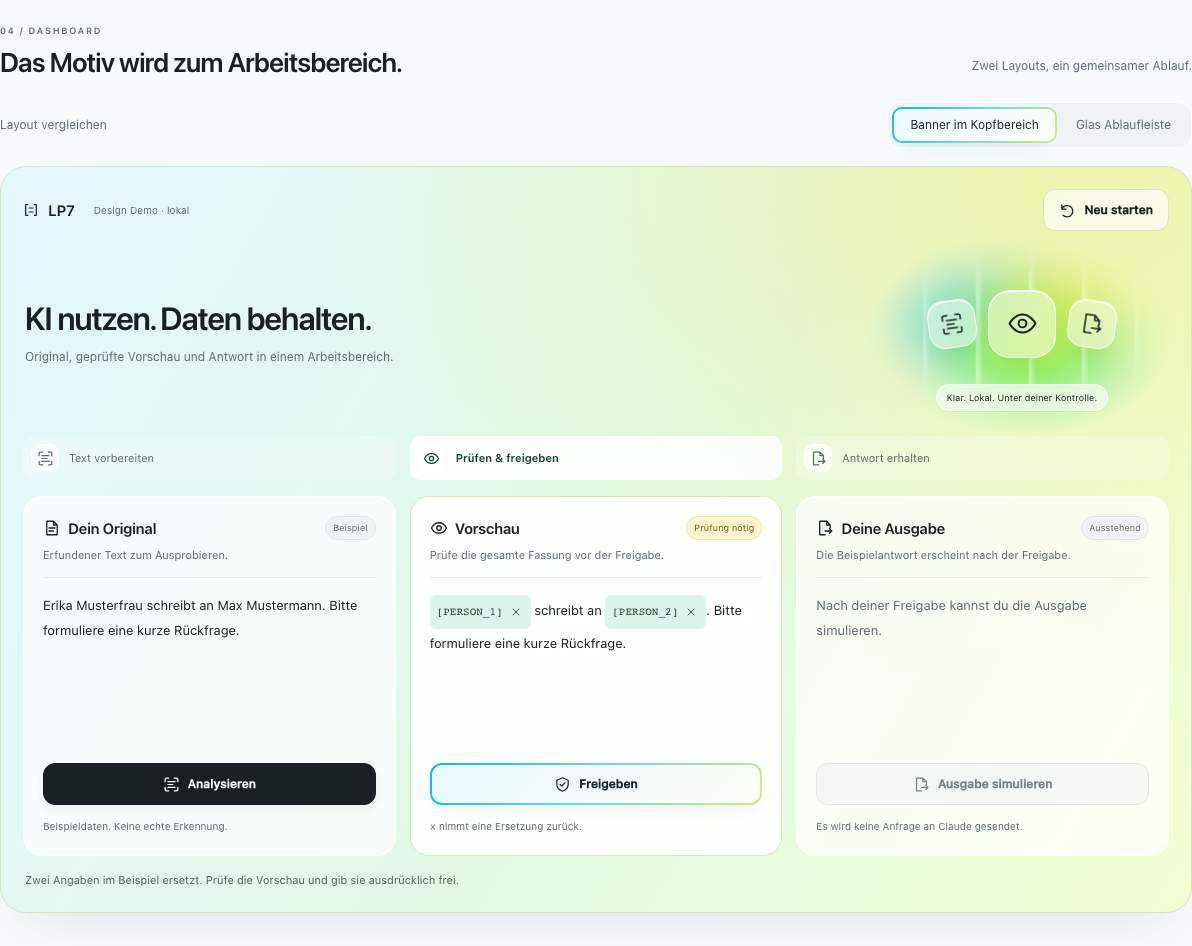
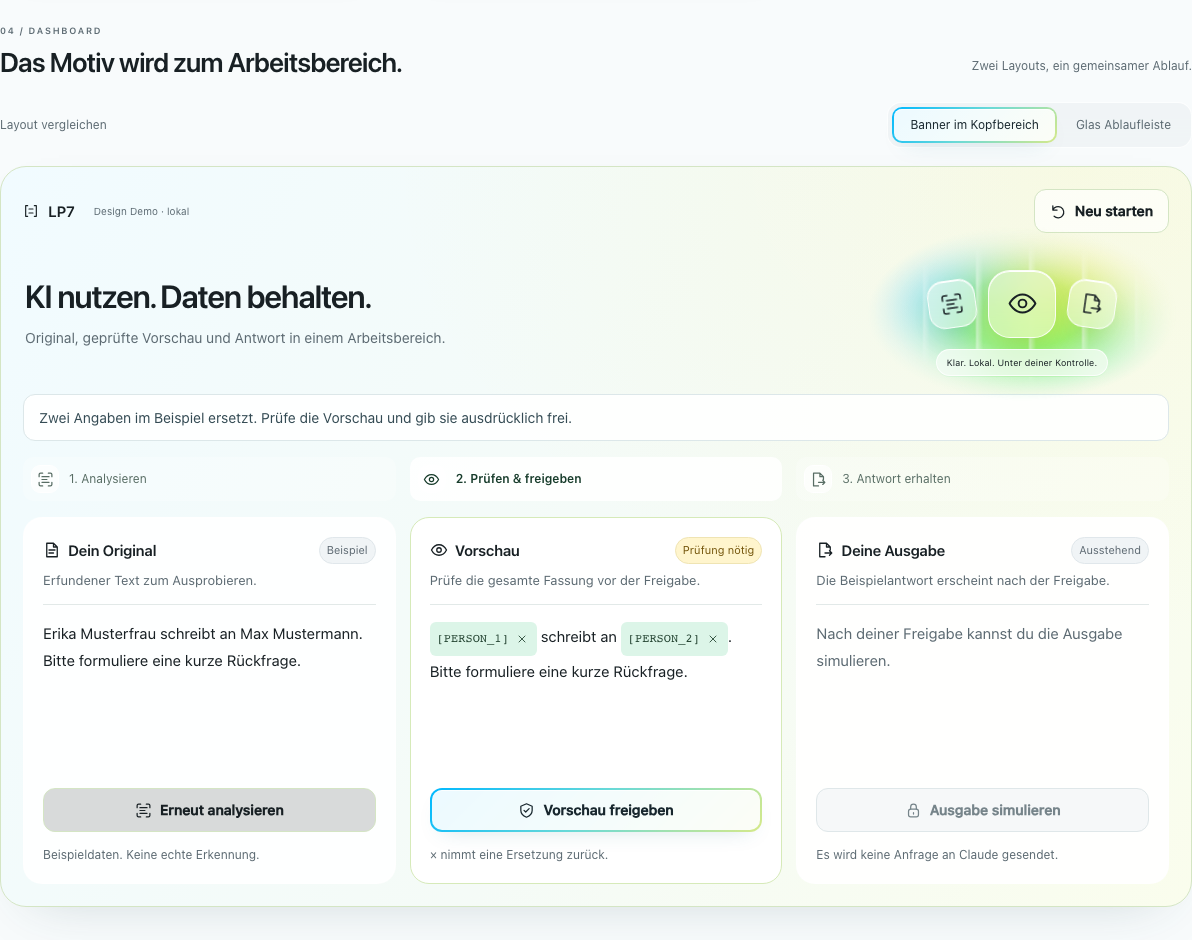
Make dashboard guidance clearer and soften work surfaces (#21)

diff --git a/web/ui-kit/kit.css b/web/ui-kit/kit.css
@@ -131,12 +131,14 @@ input { width:100%; border:1px solid #dce4e7; background:#ffffffbf; min-height:4
 .dashboard-controls { display:flex; justify-content:space-between; align-items:center; gap:16px; margin-bottom:18px; color:var(--muted); font-size:12px; }
 .dashboard { padding:22px; border:1px solid var(--line); border-radius:26px; background:linear-gradient(130deg,#ecf9fc,#f9fcfc 50%,#f0fae9); box-shadow:0 20px 55px -32px #274b5340; }
 .dashboard .demo-topbar { font-size:15px; }
+.dashboard .button { min-height:44px; font-size:14px; }
+#dashPreviewTitle:focus-visible { outline:3px solid #0076a9; outline-offset:5px; border-radius:3px; }
 .dashboard .demo-mark { gap:9px; }
 .dash-local { font-size:10px; font-weight:400; color:var(--muted); margin-left:10px; }
-.dash-intro { display:flex; justify-content:space-between; align-items:center; gap:24px; padding:25px 2px; }
+.dash-intro { display:flex; justify-content:space-between; align-items:center; gap:24px; padding:18px 2px; }
 .dash-intro h3 { font-size:32px; line-height:1.12; letter-spacing:-1.2px; }
-.dash-intro p { font-size:12px; color:var(--muted); margin:12px 0 0; }
-.dash-banner { display:none; width:290px; max-width:40%; min-height:155px; flex-shrink:0; gap:12px; margin:0; }
+.dash-intro p { font-size:14px; color:var(--muted); margin:12px 0 0; }
+.dash-banner { display:none; width:290px; max-width:40%; min-height:125px; flex-shrink:0; gap:12px; margin:0; }
 .dashboard[data-layout="banner"] .dash-banner { display:flex; }
 .dash-banner .art-icon.small { width:48px; height:48px; border-radius:16px; }
 .dash-banner .art-icon.large { width:68px; height:68px; border-radius:22px; }
@@ -144,7 +146,7 @@ input { width:100%; border:1px solid #dce4e7; background:#ffffffbf; min-height:4
 .dash-banner .art-icon.large .icon { width:31px; height:31px; }
 .dash-banner .art-label { font-size:9px; bottom:0; padding:6px 10px; white-space:nowrap; }
 .dash-steps { display:grid; grid-template-columns:repeat(3,minmax(0,1fr)); gap:14px; padding:0; margin:0 0 16px; list-style:none; }
-.dash-steps li { display:flex; align-items:center; gap:10px; font-size:11px; padding:10px 13px; border:1px solid #ffffffed; border-radius:16px; color:#586d64; background:#ffffff80; }
+.dash-steps li { display:flex; align-items:center; gap:10px; font-size:12px; padding:10px 13px; border:1px solid #ffffffed; border-radius:16px; color:#586d64; background:#ffffff80; }
 .dash-steps [aria-current="step"] { color:#173c2b; background:linear-gradient(100deg,#e3faff,#ecffc8); border-color:#cbe6c2; font-weight:600; }
 .dash-step-icon { width:36px; height:36px; flex-shrink:0; display:grid; place-items:center; border:1px solid #fff; border-radius:12px; background:#ffffffa8; box-shadow:0 3px 12px #2d563e08; }
 .dashboard[data-layout="banner"] .dash-steps li { border:0; border-radius:10px; background:#ffffff40; padding:8px; }
@@ -157,18 +159,19 @@ input { width:100%; border:1px solid #dce4e7; background:#ffffffbf; min-height:4
 .dash-card-heading { display:flex; justify-content:space-between; align-items:center; flex-wrap:wrap; gap:8px; }
 .dash-card h4 { display:flex; align-items:center; gap:7px; margin:0; font-size:15px; font-weight:600; letter-spacing:-.3px; }
 .dash-card h4 .icon { width:18px; height:18px; }
-.dash-card .badge { font-size:9px; padding:4px 7px; }
-.dash-caption { margin:-7px 0 0; color:var(--muted); font-size:11px; }
-.dash-text,#dashOriginal { flex:1; min-height:170px; width:100%; margin:0; padding:15px 0; border:0; border-top:1px solid #e2e9e8; background:transparent; font:13px/1.9 -apple-system,BlinkMacSystemFont,"Helvetica Neue","Segoe UI",sans-serif; color:var(--ink); overflow-wrap:anywhere; }
+.dash-card .badge { font-size:11px; padding:4px 7px; }
+.dash-caption { margin:-7px 0 0; color:var(--muted); font-size:13px; }
+.dash-text,#dashOriginal { flex:1; min-height:170px; width:100%; margin:0; padding:15px 0; border:0; border-top:1px solid #e2e9e8; background:transparent; font:15px/1.8 -apple-system,BlinkMacSystemFont,"Helvetica Neue","Segoe UI",sans-serif; color:var(--ink); overflow-wrap:anywhere; }
 #dashOriginal { resize:none; }
 .dash-empty { color:var(--muted); }
-.dash-text .data-chip { display:inline-flex; align-items:center; padding-right:2px; font-size:11px; margin:2px 0; }
+.dash-text .data-chip { display:inline-flex; align-items:center; padding-right:2px; font-size:12px; margin:2px 0; }
 .dash-text button { display:inline-grid; place-items:center; width:26px; height:28px; border:0; border-radius:5px; padding:0; background:transparent; color:inherit; }
 .dash-text button:hover { background:#ffffffb3; }
 .dash-text button .icon { width:12px; height:12px; }
-.dash-foot { margin:0; min-height:17px; font-size:10px; color:var(--muted); }
-.dash-notice { margin:16px 2px 0; min-height:18px; font-size:11px; color:#466457; }
-body[data-look="lime"] .dashboard { background:radial-gradient(ellipse at 90% 0,#ffe53b50,transparent 50%),linear-gradient(120deg,#e4f8ff,#e2f9e5 55%,#f3ffd1); }
+.dash-foot { margin:0; min-height:17px; font-size:12px; color:var(--muted); }
+.dash-notice { margin:0 0 16px; padding:12px 15px; border:1px solid #dce7e9; border-radius:12px; background:#ffffffdf; font-size:14px; color:#344b54; }
+body[data-look="lime"] .dashboard { --panel:#fffffff2; background:radial-gradient(ellipse at 90% 0,#ffe53b18,transparent 45%),linear-gradient(120deg,#f1fbff,#f5fbf7 55%,#fafded); }
+body[data-look="lime"] .dash-review { background:#fffffff2; }
 body[data-look="pure"] .dashboard { background:#fafbfb; box-shadow:none; }
 body[data-look="pure"] .dash-steps [aria-current="step"] { background:#eaf0ee; border-color:#d7e0dc; }
 body[data-look="pure"] .dash-card { border-color:var(--line); box-shadow:none; }
@@ -196,10 +199,10 @@ body[data-look="pure"] .icon-tile[aria-pressed="true"] { background:#f1f4f4; }
 body[data-look="pure"] .button.accent { background:var(--ink); color:#fff; border-color:var(--ink); }
 @media(max-width:1100px) { .site-shell { padding:0 28px; } .edition { display:none; } .icon-grid { grid-template-columns:repeat(6,minmax(0,1fr)); } .icon-inspector { flex-wrap:wrap; } .size-samples { padding:0 10px; } .component { padding:19px; } .demo-grid { gap:12px; } .demo-window { padding:13px; } .demo-editor { padding:14px; } .demo-caption { flex-direction:column; gap:3px; } }
 @media(max-width:800px) { .site-shell { padding:0 20px; } .hero { gap:15px; grid-template-columns:1fr; padding-top:30px; } .hero-art { min-height:180px; margin-top:8px; } h1 { font-size:52px; } .section-heading { align-items:flex-start; flex-direction:column; gap:12px; } .look-bar { align-items:flex-start; flex-direction:column; gap:12px; } .component-grid,.demo-grid { grid-template-columns:1fr; } .demo-window { min-height:400px; padding:20px; } .demo-caption { flex-direction:row; align-items:baseline; gap:9px; } .demo-steps > span { font-size:11px; } .demo-status { font-size:10px; } .demo-text { font-size:14px; } .demo-help,.demo-window .demo-safety { font-size:11px; } .demo-actions .button { font-size:13px; min-height:44px; } .demo-grid { gap:26px; } .component { padding:22px; } .component > p,.component .component-note { font-size:12px; } .local-note { font-size:11px; } .component-grid { gap:13px; } .badge { font-size:11px; } .icon-inspector .button-row { width:100%; } }
-@media(max-width:520px) { .site-header { gap:15px; min-height:80px; } .brand { font-size:24px; } .brand-caption { display:none; } nav { gap:16px; font-size:11px; } h1 { font-size:43px; letter-spacing:-2px; } .lead { font-size:13px; } h2 { font-size:25px; } .eyebrow { font-size:9px; letter-spacing:1.4px; } .icon-grid { grid-template-columns:repeat(3,minmax(0,1fr)); gap:8px; } .icon-tile { min-height:100px; } .icon-tile > span { font-size:11px; } .icon-inspector { padding:15px; gap:12px; } .inspector-info > span { font-size:11px; } .size-samples { display:none; } .inspector-symbol { width:44px; height:44px; } .icon-inspector .button { flex:1; padding:10px 9px; font-size:11px; } .segmented { width:100%; } .segmented button { flex:1; padding:8px; font-size:11px; } .section { padding-top:18px; } input { font-size:16px; } footer { flex-direction:column; } }
+@media(max-width:520px) { .site-header { flex-direction:column; align-items:flex-start; gap:2px; padding:16px 0 8px; } .brand { font-size:24px; } .brand-caption { display:none; } nav { width:100%; justify-content:space-between; gap:10px; font-size:12px; } nav a { display:flex; align-items:center; min-height:44px; } h1 { font-size:43px; letter-spacing:-2px; } .lead { font-size:13px; } h2 { font-size:25px; } .eyebrow { font-size:9px; letter-spacing:1.4px; } .icon-grid { grid-template-columns:repeat(3,minmax(0,1fr)); gap:8px; } .icon-tile { min-height:100px; } .icon-tile > span { font-size:11px; } .icon-inspector { padding:15px; gap:12px; } .inspector-info > span { font-size:11px; } .size-samples { display:none; } .inspector-symbol { width:44px; height:44px; } .icon-inspector .button { flex:1; padding:10px 9px; font-size:11px; } .segmented { width:100%; } .segmented button { flex:1; padding:8px; font-size:11px; } .section { padding-top:18px; } input { font-size:16px; } footer { flex-direction:column; } }
 /* Vermeidet leere Kompositflächen beim Scrollen langer Seiten auf kleinen Displays. */
 @media(max-width:800px) { .glass-panel { backdrop-filter:none; } }
 @media(max-width:1100px) and (min-width:801px) { .dashboard { padding:16px; } .dash-card { padding:14px; } .dash-card h4 { font-size:14px; } .dash-intro h3 { font-size:28px; } }
-@media(max-width:800px) { .dashboard-controls { flex-direction:column; align-items:flex-start; gap:11px; } .dashboard { padding:15px; border-radius:21px; } .dash-local { display:none; } .dash-intro { flex-direction:column; align-items:flex-start; gap:18px; padding:24px 2px; } .dash-intro h3 { font-size:29px; } .dash-banner { width:280px; max-width:100%; align-self:center; } .dash-panels { grid-template-columns:1fr; } .dash-card { min-height:330px; padding:19px; } .dash-steps { gap:6px; } .dash-steps li { flex-direction:column; gap:7px; padding:9px 4px; font-size:9px; text-align:center; } .dash-caption,.dash-foot,.dash-notice { font-size:11px; } #dashOriginal { font-size:16px; } .dash-card .button { min-height:44px; } }
+@media(max-width:800px) { .dashboard-controls { flex-direction:column; align-items:flex-start; gap:11px; } .dashboard { padding:15px; border-radius:21px; } .dash-local { display:none; } .dash-intro { flex-direction:column; align-items:flex-start; gap:18px; padding:24px 2px; } .dash-intro h3 { font-size:29px; } .dash-banner { width:280px; max-width:100%; align-self:center; } .dash-panels { grid-template-columns:1fr; } .dash-card { min-height:330px; padding:19px; } .dash-steps { gap:6px; } .dash-steps li { flex-direction:column; gap:7px; padding:9px 4px; font-size:11px; text-align:center; } .dash-caption,.dash-foot { font-size:12px; } #dashOriginal { font-size:16px; } .dash-card .button { min-height:44px; } }
 @media(pointer:coarse) { .dash-text button { width:44px; height:44px; } }
 @media(prefers-reduced-motion:reduce) { html { scroll-behavior:auto; } * { transition:none !important; } }

diff --git a/web/ui-kit/index.html b/web/ui-kit/index.html
@@ -32,7 +32,7 @@
 <div class="site-shell">
   <header class="site-header">
     <a class="brand" href="#"><svg class="icon" aria-hidden="true"><use href="#i-mask"/></svg>LP7<span class="brand-caption">Interface Kit</span></a>
-    <nav aria-label="UI Kit Bereiche"><a href="#icons">Icons</a><a href="#components">Komponenten</a><a href="#demos">Demos</a></nav>
+    <nav aria-label="UI Kit Bereiche"><a href="#icons">Icons</a><a href="#components">Komponenten</a><a href="#demos">Demos</a><a href="#dashboard">Dashboard</a></nav>
     <span class="edition">Designstudie · 2026</span>
   </header>
   <main>
@@ -74,13 +74,13 @@
       <div id="dashboardDemo" class="dashboard" data-layout="banner" data-stage="original">
         <div class="demo-topbar"><span class="demo-mark"><svg class="icon" aria-hidden="true"><use href="#i-mask"/></svg>LP7<span class="dash-local">Design Demo · lokal</span></span><button type="button" class="button secondary" id="dashReset"><svg class="icon" aria-hidden="true"><use href="#i-reset"/></svg>Neu starten</button></div>
         <div class="dash-intro"><div><h3>KI nutzen. Daten behalten.</h3><p>Original, geprüfte Vorschau und Antwort in einem Arbeitsbereich.</p></div><div class="dash-banner hero-art" aria-hidden="true"><span class="art-icon small"><svg class="icon"><use href="#i-analyze"/></svg></span><span class="art-icon large"><svg class="icon"><use href="#i-preview"/></svg></span><span class="art-icon small"><svg class="icon"><use href="#i-output"/></svg></span><span class="art-label">Klar. Lokal. Unter deiner Kontrolle.</span></div></div>
-        <ol class="dash-steps" aria-label="Dashboard Arbeitsschritte"><li data-dash-step="original"><span class="dash-step-icon"><svg class="icon" aria-hidden="true"><use href="#i-analyze"/></svg></span>Text vorbereiten</li><li data-dash-step="preview"><span class="dash-step-icon"><svg class="icon" aria-hidden="true"><use href="#i-preview"/></svg></span>Prüfen & freigeben</li><li data-dash-step="output"><span class="dash-step-icon"><svg class="icon" aria-hidden="true"><use href="#i-output"/></svg></span>Antwort erhalten</li></ol>
+        <p id="dashNotice" class="dash-notice" role="status"></p>
+        <ol class="dash-steps" aria-label="Dashboard Arbeitsschritte"><li data-dash-step="original"><span class="dash-step-icon"><svg class="icon" aria-hidden="true"><use href="#i-analyze"/></svg></span>1. Analysieren</li><li data-dash-step="preview"><span class="dash-step-icon"><svg class="icon" aria-hidden="true"><use href="#i-preview"/></svg></span>2. Prüfen & freigeben</li><li data-dash-step="output"><span class="dash-step-icon"><svg class="icon" aria-hidden="true"><use href="#i-output"/></svg></span>3. Antwort erhalten</li></ol>
         <div class="dash-panels">
           <section class="dash-card" aria-labelledby="dashOriginalTitle"><div class="dash-card-heading"><h4 id="dashOriginalTitle"><svg class="icon" aria-hidden="true"><use href="#i-original"/></svg>Dein Original</h4><span class="badge neutral">Beispiel</span></div><p class="dash-caption" id="dashOriginalHelp">Erfundener Text zum Ausprobieren.</p><textarea id="dashOriginal" readonly aria-labelledby="dashOriginalTitle" aria-describedby="dashOriginalHelp"></textarea><button type="button" class="button primary" id="dashAnalyze"><svg class="icon" aria-hidden="true"><use href="#i-analyze"/></svg>Analysieren</button><p class="dash-foot">Beispieldaten. Keine echte Erkennung.</p></section>
-          <section class="dash-card dash-review" aria-labelledby="dashPreviewTitle"><div class="dash-card-heading"><h4 id="dashPreviewTitle"><svg class="icon" aria-hidden="true"><use href="#i-preview"/></svg>Vorschau</h4><span id="dashStatus" class="badge neutral">Gesperrt</span></div><p class="dash-caption">Prüfe die gesamte Fassung vor der Freigabe.</p><div id="dashPreview" class="dash-text"></div><button type="button" class="button accent" id="dashRelease" disabled><svg class="icon" aria-hidden="true"><use href="#i-release"/></svg>Freigeben</button><p class="dash-foot">× nimmt eine Ersetzung zurück.</p></section>
+          <section class="dash-card dash-review" aria-labelledby="dashPreviewTitle"><div class="dash-card-heading"><h4 id="dashPreviewTitle" tabindex="-1"><svg class="icon" aria-hidden="true"><use href="#i-preview"/></svg>Vorschau</h4><span id="dashStatus" class="badge neutral">Gesperrt</span></div><p class="dash-caption">Prüfe die gesamte Fassung vor der Freigabe.</p><div id="dashPreview" class="dash-text"></div><button type="button" class="button accent" id="dashRelease" disabled><svg class="icon" aria-hidden="true"><use href="#i-release"/></svg>Vorschau freigeben</button><p class="dash-foot">× nimmt eine Ersetzung zurück.</p></section>
           <section class="dash-card" aria-labelledby="dashAnswerTitle"><div class="dash-card-heading"><h4 id="dashAnswerTitle"><svg class="icon" aria-hidden="true"><use href="#i-output"/></svg>Deine Ausgabe</h4><span id="dashAnswerStatus" class="badge neutral">Ausstehend</span></div><p class="dash-caption">Die Beispielantwort erscheint nach der Freigabe.</p><div id="dashAnswer" class="dash-text"></div><button type="button" class="button primary" id="dashOutput" disabled><svg class="icon" aria-hidden="true"><use href="#i-output"/></svg>Ausgabe simulieren</button><p class="dash-foot">Es wird keine Anfrage an Claude gesendet.</p></section>
         </div>
-        <p id="dashNotice" class="dash-notice" role="status"></p>
       </div>
     </section>
     <footer><span>LP7 · Interface Kit</span><span>Eigenständige Designstudie. Keine Verbindung zu Claude.</span><a href="icons.zip" download>Alle 18 SVG Icons laden <span aria-hidden="true">↗</span></a></footer>

diff --git a/web/ui-kit/kit.js b/web/ui-kit/kit.js
@@ -145,7 +145,7 @@ function renderDashboard(message) {
   const output = dashboardStage === 'output';
   dashboard.dataset.stage = dashboardStage;
   for (const step of dashboard.querySelectorAll('[data-dash-step]')) {
-    if (step.dataset.dashStep === (original ? 'original' : output ? 'output' : 'preview')) step.setAttribute('aria-current', 'step');
+    if (step.dataset.dashStep === (original ? 'original' : released || output ? 'output' : 'preview')) step.setAttribute('aria-current', 'step');
     else step.removeAttribute('aria-current');
   }
   const person = (index, name) => removed.has(index) ? name : `<span class="data-chip person">[PERSON_${index}]<button type="button" data-person="${index}" aria-label="PERSON_${index} zurücknehmen">${icon('close')}</button></span>`;
@@ -154,6 +154,12 @@ function renderDashboard(message) {
   $('dashStatus').className = 'badge ' + (original ? 'neutral' : released || output ? 'success' : 'warning');
   $('dashRelease').disabled = original || released || output;
   $('dashOutput').disabled = !released;
+  $('dashAnalyze').classList.toggle('primary', original);
+  $('dashAnalyze').classList.toggle('secondary', !original);
+  $('dashAnalyze').innerHTML = icon('analyze') + (original ? 'Analysieren' : 'Erneut analysieren');
+  $('dashOutput').classList.toggle('primary', released);
+  $('dashOutput').classList.toggle('secondary', !released);
+  $('dashOutput').innerHTML = icon(released || output ? 'output' : 'lock') + 'Ausgabe simulieren';
   $('dashAnswer').textContent = output ? example.answer : 'Nach deiner Freigabe kannst du die Ausgabe simulieren.';
   $('dashAnswer').classList.toggle('dash-empty', !output);
   $('dashAnswerStatus').textContent = output ? 'Fertig' : 'Ausstehend';
@@ -165,11 +171,13 @@ $('dashAnalyze').addEventListener('click', () => {
   removed.clear();
   dashboardStage = 'preview';
   renderDashboard('Zwei Angaben im Beispiel ersetzt. Prüfe die Vorschau und gib sie ausdrücklich frei.');
+  $('dashPreviewTitle').focus();
 });
 $('dashRelease').addEventListener('click', () => {
   if (dashboardStage !== 'preview') return;
   dashboardStage = 'released';
   renderDashboard('Vorschau freigegeben. Die simulierte Ausgabe ist jetzt verfügbar.');
+  $('dashOutput').focus();
 });
 $('dashOutput').addEventListener('click', () => {
   if (dashboardStage !== 'released') return;

diff --git a/web/ui-kit/test_kit.py b/web/ui-kit/test_kit.py
@@ -36,6 +36,7 @@ def main() -> None:
         expect(page.locator('body')).to_have_attribute('data-look', 'lime')
         expect(page.locator('.segmented [data-look="lime"]')).to_have_attribute('aria-pressed', 'true')
         expect(page.locator('#dashboardDemo')).to_have_attribute('data-layout', 'banner')
+        expect(page.get_by_role('navigation').get_by_role('link', name='Dashboard')).to_have_attribute('href', '#dashboard')
         expect(page.locator('.icon-tile')).to_have_count(18)
         for name, paths in source.items():
             page.locator(f'[data-icon="{name}"]').click()
@@ -96,6 +97,7 @@ def main() -> None:
             expect(dashboard).to_have_attribute('data-layout', layout)
             page.locator('#dashReset').click()
             expect(page.locator('#dashRelease')).to_be_disabled()
+            expect(dashboard.locator('.dash-panels .primary')).to_have_attribute('id', 'dashAnalyze')
             expect(page.locator('#dashOutput')).to_be_disabled()
             # Auch ein synthetischer Klick darf die Freigabesperre nicht umgehen.
             page.locator('#dashOutput').evaluate('button => button.dispatchEvent(new MouseEvent("click"))')
@@ -103,9 +105,15 @@ def main() -> None:
             page.locator('#dashAnalyze').click()
             expect(page.locator('#dashPreview [data-person]')).to_have_count(2)
             expect(page.locator('#dashRelease')).to_be_enabled()
+            expect(page.locator('#dashPreviewTitle')).to_be_focused()
+            expect(dashboard.locator('.dash-panels .primary')).to_have_count(0)
+            expect(dashboard.locator('[aria-current=step]')).to_have_attribute('data-dash-step', 'preview')
             expect(page.locator('#dashOutput')).to_be_disabled()
             page.locator('#dashRelease').click()
             expect(page.locator('#dashOutput')).to_be_enabled()
+            expect(page.locator('#dashOutput')).to_be_focused()
+            expect(dashboard.locator('.dash-panels .primary')).to_have_attribute('id', 'dashOutput')
+            expect(dashboard.locator('[aria-current=step]')).to_have_attribute('data-dash-step', 'output')
             other = 'banner' if layout == 'flow' else 'flow'
             page.locator(f'.dashboard-controls [data-layout="{other}"]').click()
             expect(page.locator('#dashOutput')).to_be_enabled()

diff --git a/web/ui-kit/README.md b/web/ui-kit/README.md
@@ -73,7 +73,7 @@ Die Geometrien wurden für dieses Kit gezeichnet. Die Symbole in [index.html](in
 
 ## Banner und Dashboard Ideen
 
-Die Grafik liegt unter [assets/banner.png](assets/banner.png). Im Abschnitt **Dashboard** sind beide Layouts jetzt interaktiv: eine Variante mit dem Glasmotiv im Kopfbereich und eine kompaktere Variante mit Glas Icons in der Ablaufleiste. Beim Layoutwechsel bleibt der aktuelle Bearbeitungsstand erhalten.
+Die Grafik liegt unter [assets/banner.png](assets/banner.png). Im Abschnitt **Dashboard** sind beide Layouts jetzt interaktiv: eine Variante mit dem Glasmotiv im Kopfbereich und eine kompaktere Variante mit Glas Icons in der Ablaufleiste. Beim Layoutwechsel bleibt der aktuelle Bearbeitungsstand erhalten. Das Dashboard ist direkt im Menü erreichbar. Helle Arbeitsflächen, ein dezenter Verlauf und größere Texte erleichtern das Lesen. Die nummerierten Schritte und der Hinweis über den Arbeitsbereichen zeigen den nächsten Schritt. Nach der Analyse führt der Tastaturfokus zur Vorschau, nach der Freigabe zur Ausgabe. Erneut analysieren bleibt als Nebenaktion verfügbar; die Freigabe nutzt weiterhin Material C.
 
 ![Interaktive Dashboard Demo mit Glasmotiv im Kopfbereich](assets/dashboard-demo-banner.png)
 
